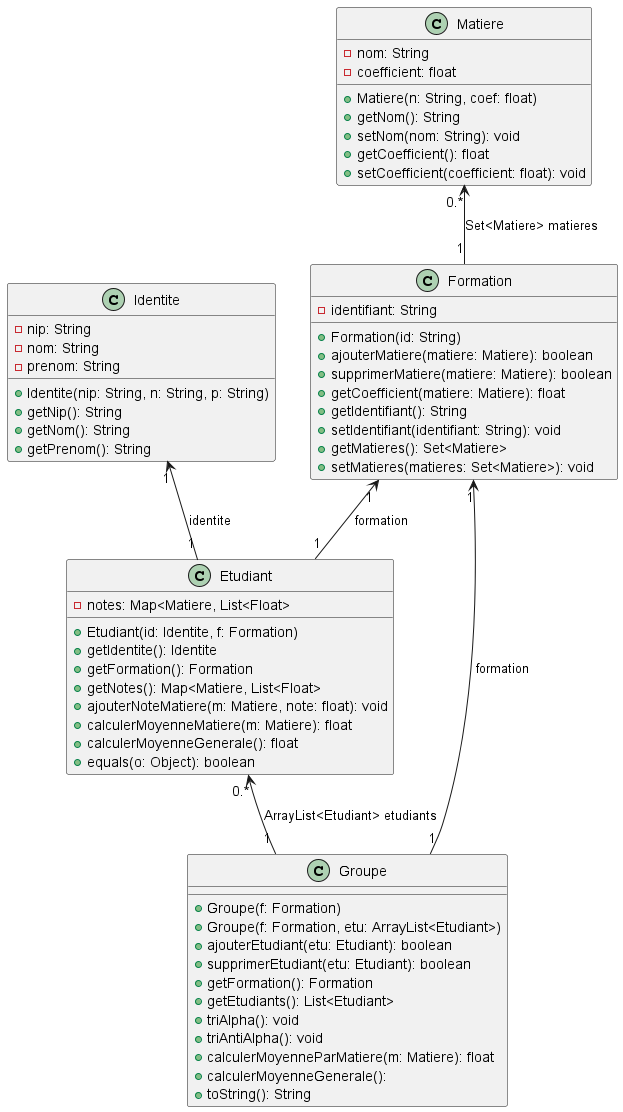
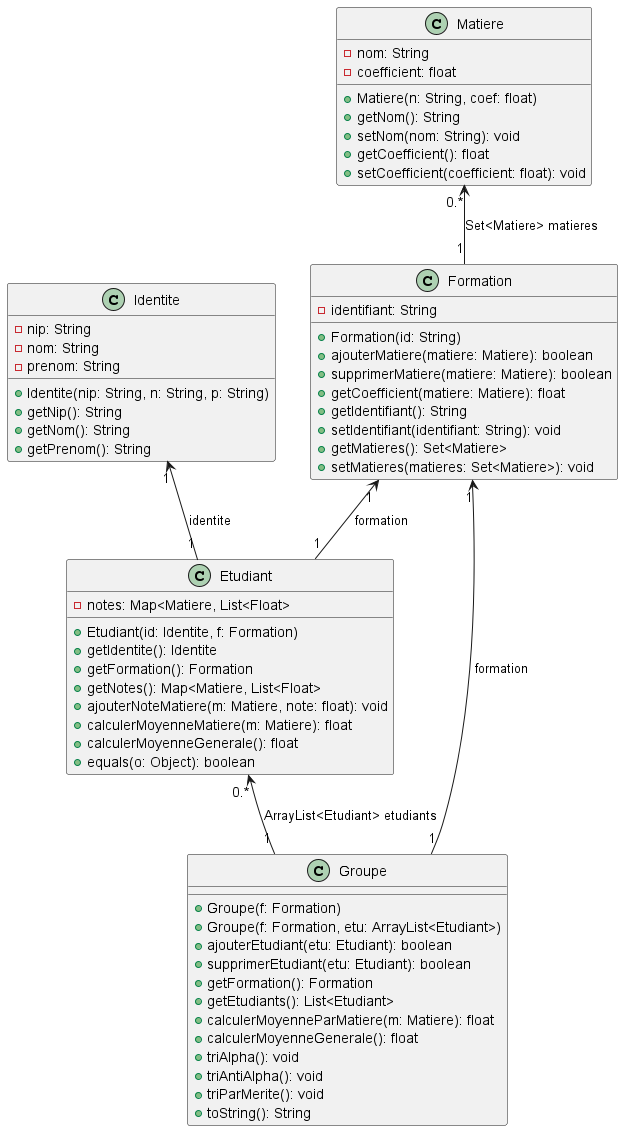
diagramme de classes fini version .png aussi

diff --git a/ProjetFormation/tests/TestGroupe.java b/ProjetFormation/tests/TestGroupe.java
@@ -5,7 +5,7 @@ import static org.junit.jupiter.api.Assertions.*;
 public class TestGroupe {
 
     Groupe groupe;
-    Etudiant mickeyMouse, donaldDuck, minnieMouse, patHibulaire;
+    Etudiant mickeyMouse, donaldDuck, minnieMouse, patHibulaire, ririDuck;
     Matiere matiere1, matiere2, matiere3;
 
     Formation formation;
@@ -29,6 +29,7 @@ public class TestGroupe {
         donaldDuck = new Etudiant(new Identite("etu@2", "Duck", "Donald"), groupe.getFormation());
         minnieMouse = new Etudiant(new Identite("etu@3", "Mouse", "Minnie"), groupe.getFormation());
         patHibulaire = new Etudiant(new Identite("etu@4", "Hibulaire", "Pat"), groupe.getFormation());
+        ririDuck = new Etudiant(new Identite("etu@5", "Duck", "Riri"), groupe.getFormation());
         try{
             mickeyMouse.ajouterNoteMatiere(matiere1, 15.0f);
             mickeyMouse.ajouterNoteMatiere(matiere2, 12.0f);
@@ -45,6 +46,10 @@ public class TestGroupe {
             patHibulaire.ajouterNoteMatiere(matiere1, 19.0f);
             patHibulaire.ajouterNoteMatiere(matiere2, 10.0f);
             patHibulaire.ajouterNoteMatiere(matiere3, 10.0f);
+
+            ririDuck.ajouterNoteMatiere(matiere1, 19.0f);
+            ririDuck.ajouterNoteMatiere(matiere2, 10.0f);
+            ririDuck.ajouterNoteMatiere(matiere3, 10.0f);
         }catch(MatiereInexistanteException e){
             e.printStackTrace();
         }
@@ -134,5 +139,22 @@ public class TestGroupe {
         groupe.triParMerite();
 
         assertEquals("Mouse-Minnie : ufr\nMouse-Mickey : ufr\nHibulaire-Pat : ufr\nDuck-Donald : ufr\n", groupe.toString());
+    }
+
+    @Test
+    public void trierListeParMeriteEtMemeMoyenneOk() throws MatiereInexistanteException{
+        /*
+         * Moyenne de chaque élève :
+         *   Pat    : 14,5
+         *   Riri : 14,5
+         */
+        //initialisation
+        groupe.ajouterEtudiant(patHibulaire);
+        groupe.ajouterEtudiant(ririDuck);
+
+        //test riri doit être avant pat car cela tri par ordre alphabéitque
+        groupe.triParMerite();
+
+        assertEquals("Duck-Riri : ufr\nHibulaire-Pat : ufr\n", groupe.toString());
     }
 }

diff --git a/ProjetFormation/src/Groupe.java b/ProjetFormation/src/Groupe.java
@@ -155,6 +155,7 @@ public class Groupe {
     /**
      * Méthode qui redéfinit un comparateur d'Etudiant afin de les comparer dans l'ordre décroissant selon
      * leur moyenne générale (Ex : Paul 19 sera 1er et Marie 14 sera 2ème)
+     * S'ils ont la même moyenne générale, alors il sont trié par ordre alphabétique
      */
     public void triParMerite() throws MatiereInexistanteException{
         Collections.sort(etudiants, new Comparator<Etudiant>(){
@@ -168,7 +169,7 @@ public class Groupe {
                     }else if(moyenne_1 <moyenne_2){
                         return 1;
                     }else{
-                        return 0;
+                        return etu1.getIdentite().getNom().compareTo(etu2.getIdentite().getNom());
                     }
                 } catch (MatiereInexistanteException e) {
                     throw new RuntimeException(e);
